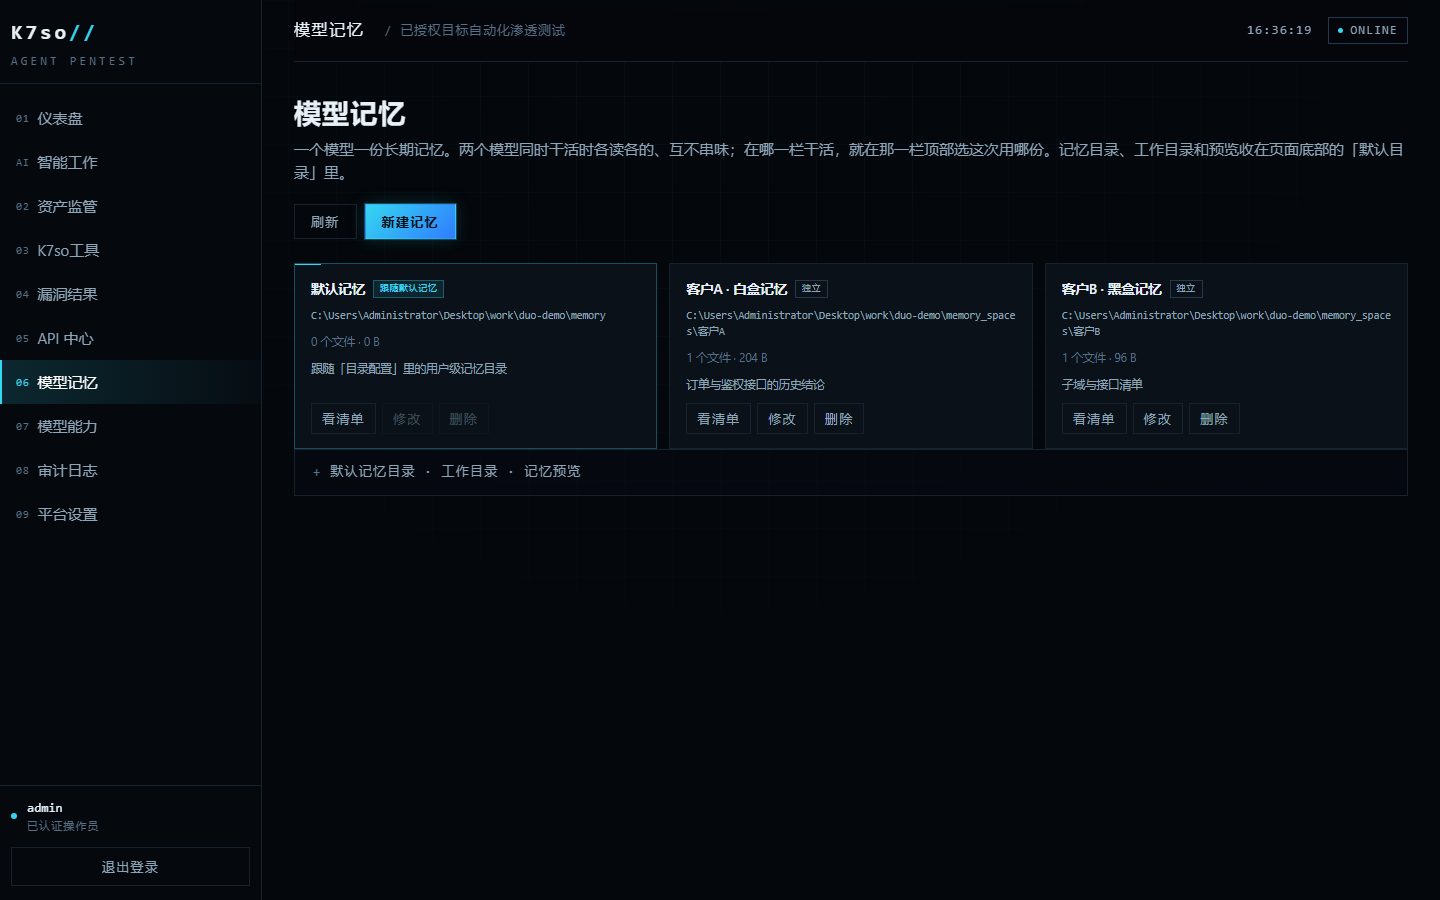
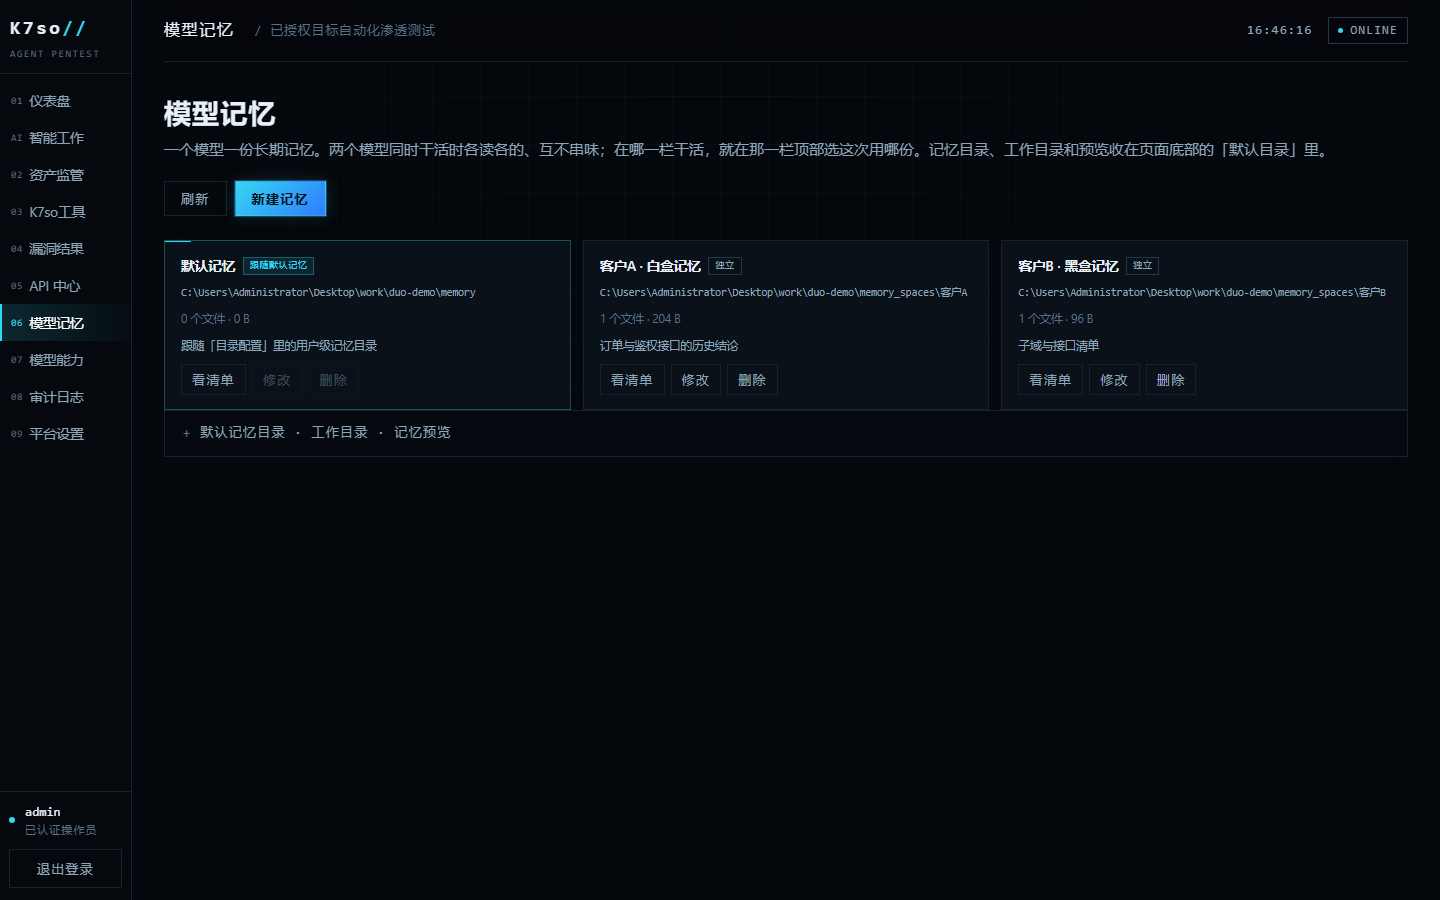
左侧导航收窄到 132px：去掉覆盖宽度的媒体查询，导航项压薄

diff --git a/mono/static/style.css b/mono/static/style.css
@@ -94,23 +94,23 @@ body::before {
 }
 
 /* ---------- layout ---------- */
-.app { display: grid; grid-template-columns: 152px minmax(0, 1fr); min-height: 100vh; position: relative; z-index: 1; }
+.app { display: grid; grid-template-columns: 132px minmax(0, 1fr); min-height: 100vh; position: relative; z-index: 1; }
 .sidebar {
   border-right: 1px solid var(--line);
   background: rgba(5,10,15,.94);
   display: flex; flex-direction: column;
   position: sticky; top: 0; height: 100vh; z-index: 20;
 }
-.side-brand { padding: 16px 11px 13px; border-bottom: 1px solid var(--line); }
-.logo { font-family: var(--mono); font-size: 21px; font-weight: 700; letter-spacing: .14em; }
+.side-brand { padding: 14px 10px 11px; border-bottom: 1px solid var(--line); }
+.logo { font-family: var(--mono); font-size: 19px; font-weight: 700; letter-spacing: .14em; }
 .logo span { color: var(--accent); }
-.logo-sub { color: var(--dim); font-family: var(--mono); font-size: 9px; letter-spacing: .3em; margin-top: 4px; }
-.side-nav { padding: 12px 0; flex: 1; overflow-y: auto; }
+.logo-sub { color: var(--dim); font-family: var(--mono); font-size: 8.5px; letter-spacing: .2em; margin-top: 4px; }
+.side-nav { padding: 8px 0; flex: 1; overflow-y: auto; }
 .nav-item {
-  width: 100%; display: flex; align-items: center; gap: 11px;
+  width: 100%; display: flex; align-items: center; gap: 8px;
   background: none; border: 0; border-left: 2px solid transparent;
   color: var(--muted); text-align: left; cursor: pointer;
-  padding: 10px 12px; font-size: 12px; font-family: var(--sans);
+  padding: 8px 9px; font-size: 12px; font-family: var(--sans);
   transition: color .15s, background .15s, border-color .15s;
 }
 .nav-item .idx { font-family: var(--mono); font-size: 10px; color: var(--dim); letter-spacing: .06em; }
@@ -121,7 +121,7 @@ body::before {
   background: linear-gradient(90deg, rgba(53,214,240,.15), rgba(53,214,240,.02));
 }
 .nav-item.active .idx { color: var(--accent); }
-.side-foot { border-top: 1px solid var(--line); padding: 12px 11px 14px; display: grid; gap: 12px; }
+.side-foot { border-top: 1px solid var(--line); padding: 10px 9px 12px; display: grid; gap: 10px; }
 .side-user { display: flex; align-items: center; gap: 10px; font-family: var(--mono); font-size: 11px; }
 .side-user small { display: block; color: var(--dim); font-size: 9px; letter-spacing: .1em; }
 .side-user strong { font-weight: 500; color: var(--text); }
@@ -1012,9 +1012,9 @@ body { font-size: 16px; }
 .login-error { font-size: 13px; }
 .login-foot { font-size: 12.5px; }
 .login-meta { font-size: 12px; }
-.logo-sub { font-size: 11.5px; }
-.nav-item { font-size: 15px; padding: 12px 14px; gap: 8px; }
-.nav-item .idx { font-size: 11px; }
+.logo-sub { font-size: 9.5px; letter-spacing: .18em; }
+.nav-item { font-size: 13.5px; padding: 9px 9px; gap: 6px; }
+.nav-item .idx { font-size: 10px; }
 .side-user { font-size: 13px; }
 .side-user small { font-size: 11px; }
 .crumb { font-size: 13px; }
@@ -1259,9 +1259,7 @@ td.mono-cell, td .mono { font-size: 14px; }
 .chat-session-del:hover { color: #ff8ba0; border-color: rgba(255,139,160,.4); }
 .hidden { display: none !important; }
 
-@media (min-width: 901px) {
-  .app { grid-template-columns: 262px minmax(0, 1fr); }
-}
+/* 桌面端侧栏宽度由上面的 .app 统一决定，这里不再另设一套，免得两处打架 */
 
 /* ============================================================
    免责声明（登录后强制确认）

diff --git a/mono/static/index.html b/mono/static/index.html
@@ -4,7 +4,7 @@
 <meta charset="utf-8">
 <meta name="viewport" content="width=device-width, initial-scale=1">
 <title>K7so // Agent 自动化渗透测试平台</title>
-<link rel="stylesheet" href="/static/style.css?v=20261127b">
+<link rel="stylesheet" href="/static/style.css?v=20261127c">
 </head>
 <body>
 
@@ -29,7 +29,7 @@
       <span>仅限已授权资产的渗透测试</span>
     </div>
   </div>
-  <div class="login-meta">K7so v3.7.2 · AUTHORIZED USE ONLY</div>
+  <div class="login-meta">K7so v3.7.3 · AUTHORIZED USE ONLY</div>
 </div>
 
 <div id="disclaimer-screen" class="login-screen hidden">
@@ -619,7 +619,7 @@
 
 <div id="modal-root"></div>
 <div id="toast" class="toast"></div>
-<script src="/static/app.js?v=20261127b"></script>
-<script src="/static/duo.js?v=20261127b"></script>
+<script src="/static/app.js?v=20261127c"></script>
+<script src="/static/duo.js?v=20261127c"></script>
 </body>
 </html>

diff --git a/tests/test_duo_pairs.py b/tests/test_duo_pairs.py
@@ -305,7 +305,9 @@ check("单会话页能返回协同", 'id="chat-back-duo"' in html)
 check("加载了双模型脚本", "/static/duo.js" in html)
 
 check("三栏栅格：左右等宽、中间一小份", "grid-template-columns: minmax(0, 1fr) 292px minmax(0, 1fr)" in css)
-check("侧栏收窄到 152", "grid-template-columns: 152px minmax(0, 1fr)" in css)
+check("侧栏收窄到 132", "grid-template-columns: 132px minmax(0, 1fr)" in css)
+check("导航项不再做成大按钮", "padding: 8px 9px; font-size: 12px" in css)
+check("侧栏宽度只由一处决定", "262px" not in css and css.count("grid-template-columns: 132px") == 1)
 check("输入框有最小宽度兜底", "min-width: 150px" in css and "min-width: 120px" in css)
 check("协同记录卡片有样式", ".duo-note" in css and ".duo-files" in css)
 check("栏头有单栏开关", 'id="duo-a-on"' in html and 'id="duo-b-on"' in html)

diff --git a/tests/test_round_brief.py b/tests/test_round_brief.py
@@ -350,7 +350,7 @@ def test_frontend_wiring() -> None:
     check("自定义模型必须填地址", "自定义模型必须填写 Base URL" in js)
     check("自定义模型必须填模型名", "自定义模型必须填写模型名称" in js)
     check("免密钥的模型也能直接检测", "const noSecret = !connector.secret_required;" in js)
-    check("静态资源换了版本号", "?v=20261127b" in html)
+    check("静态资源换了版本号", "?v=20261127c" in html)
     check("接入列表名称与类型分两行", 'class="td-title"><strong>${esc(item.name)}</strong><small>' in js)
     check("接入列表表头说清两列", "名称 / 类型" in js)
 

diff --git a/mono/config.py b/mono/config.py
@@ -22,7 +22,7 @@ SECRET_PATH = DATA_DIR / ".secret"
 
 APP_NAME = "K7so"
 APP_SUBTITLE = "Agent 渗透测试平台"
-APP_VERSION = "3.7.2"
+APP_VERSION = "3.7.3"
 
 # 默认用普通浏览器 UA：目标是业务系统时，非浏览器指纹容易被 WAF 直接拦掉
 DEFAULT_USER_AGENT = (
